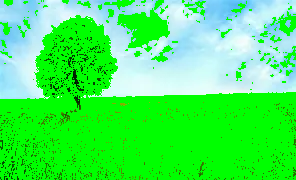
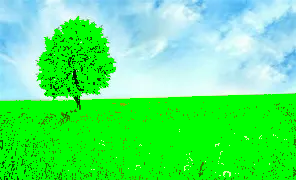
I FIXED THE GREEN FINDER

diff --git a/6.7/sixseven_func.py b/6.7/sixseven_func.py
@@ -1,5 +1,5 @@
 def colour(r, g, b):
-        if  (1 <= r <= 238 and 54 <= g <= 255 and 1 <= b <= 238):
+        if  (1 <= r <= 238 and 54 <= g <= 255 and 1 <= b <= 138):
             return "green"
         
 def search(listname, min, max):
